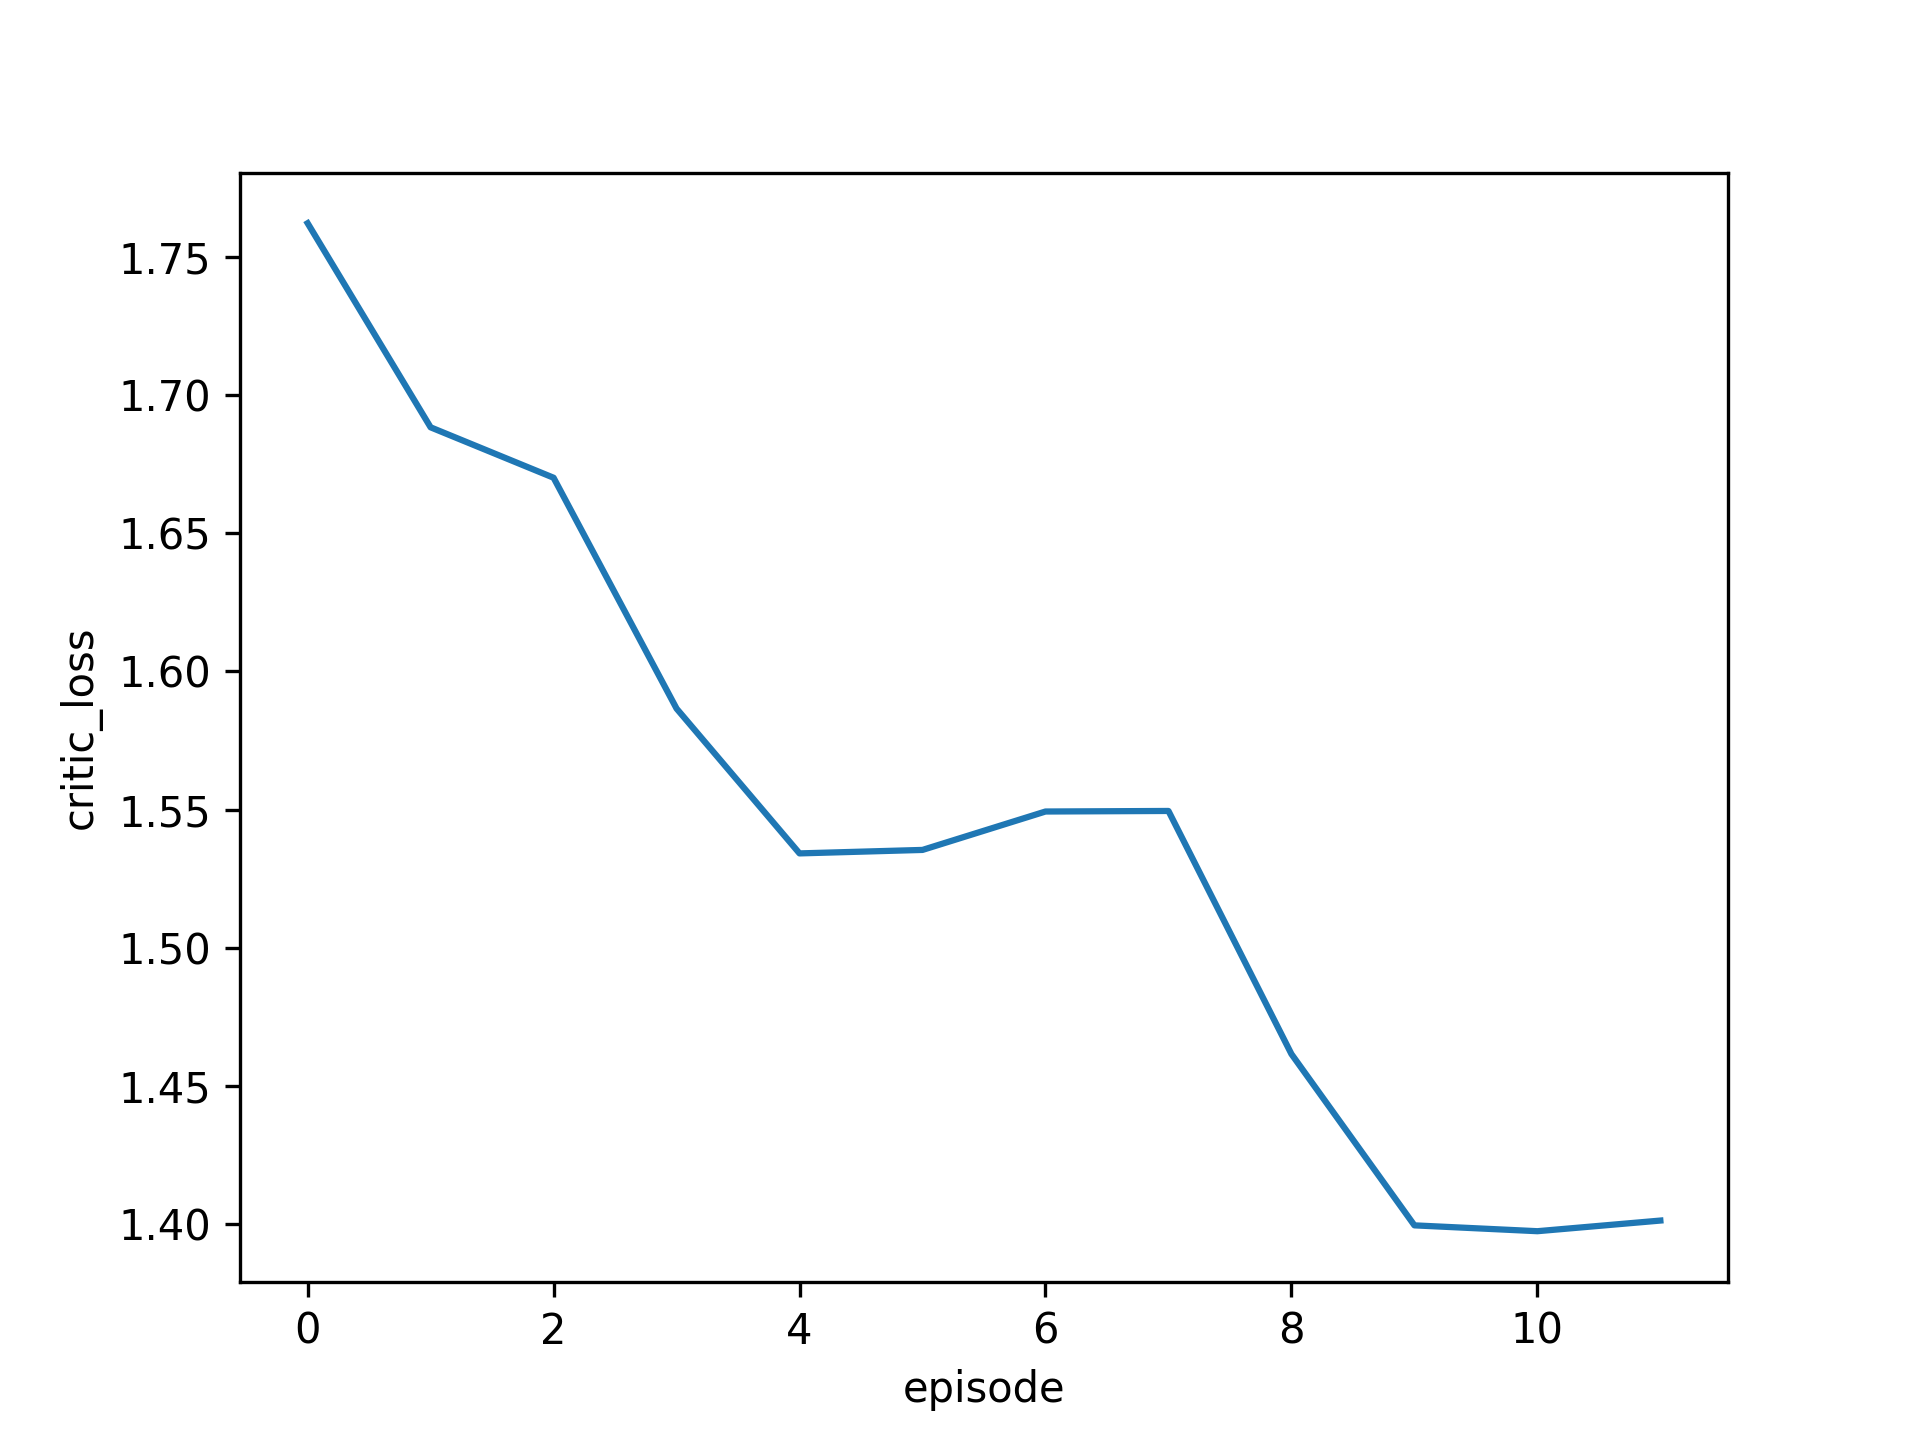
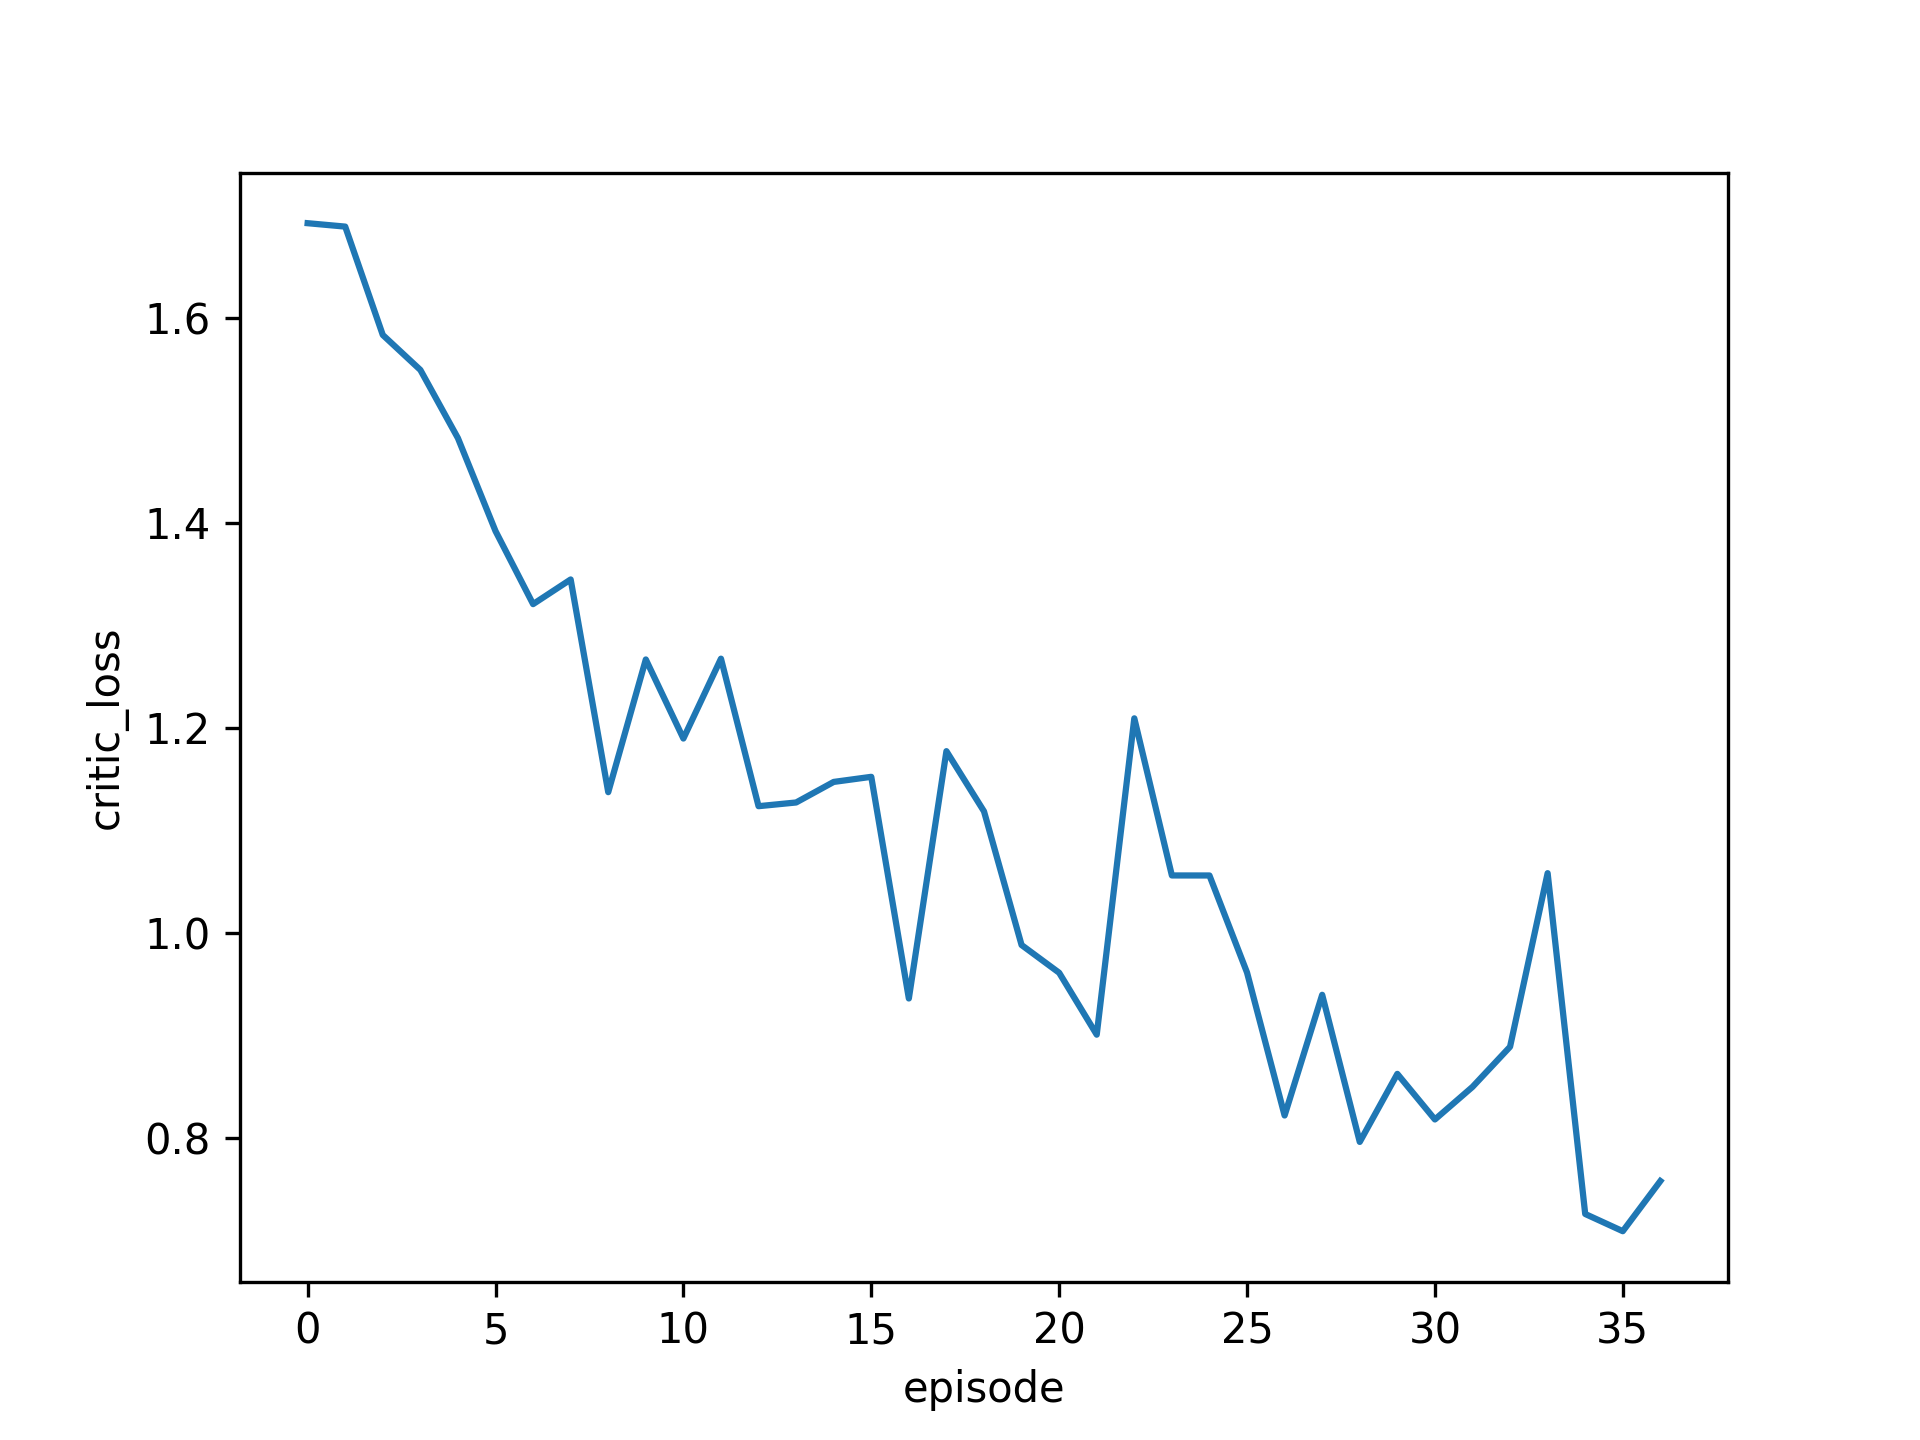
integrated with target policy smoothing

diff --git a/agent/td3.py b/agent/td3.py
@@ -74,7 +74,7 @@ class td3Agent():
 	def make_target_action(self, obs, noise=True):
 		""" predict next action from Actor's Target Policy
 		"""
-		action_ = self.actor.target_predict(obs); sigma=0.2; return action_
+		action_ = self.actor.target_predict(obs); sigma=0.2; #return action_
 		cliped_noise = np.clip(np.random.normal(0,self.action_bound*sigma),-self.action_bound*0.5,self.action_bound*0.5)
 		a = np.clip(action_ + cliped_noise if noise else 0, -self.action_bound, self.action_bound)
 		return a
